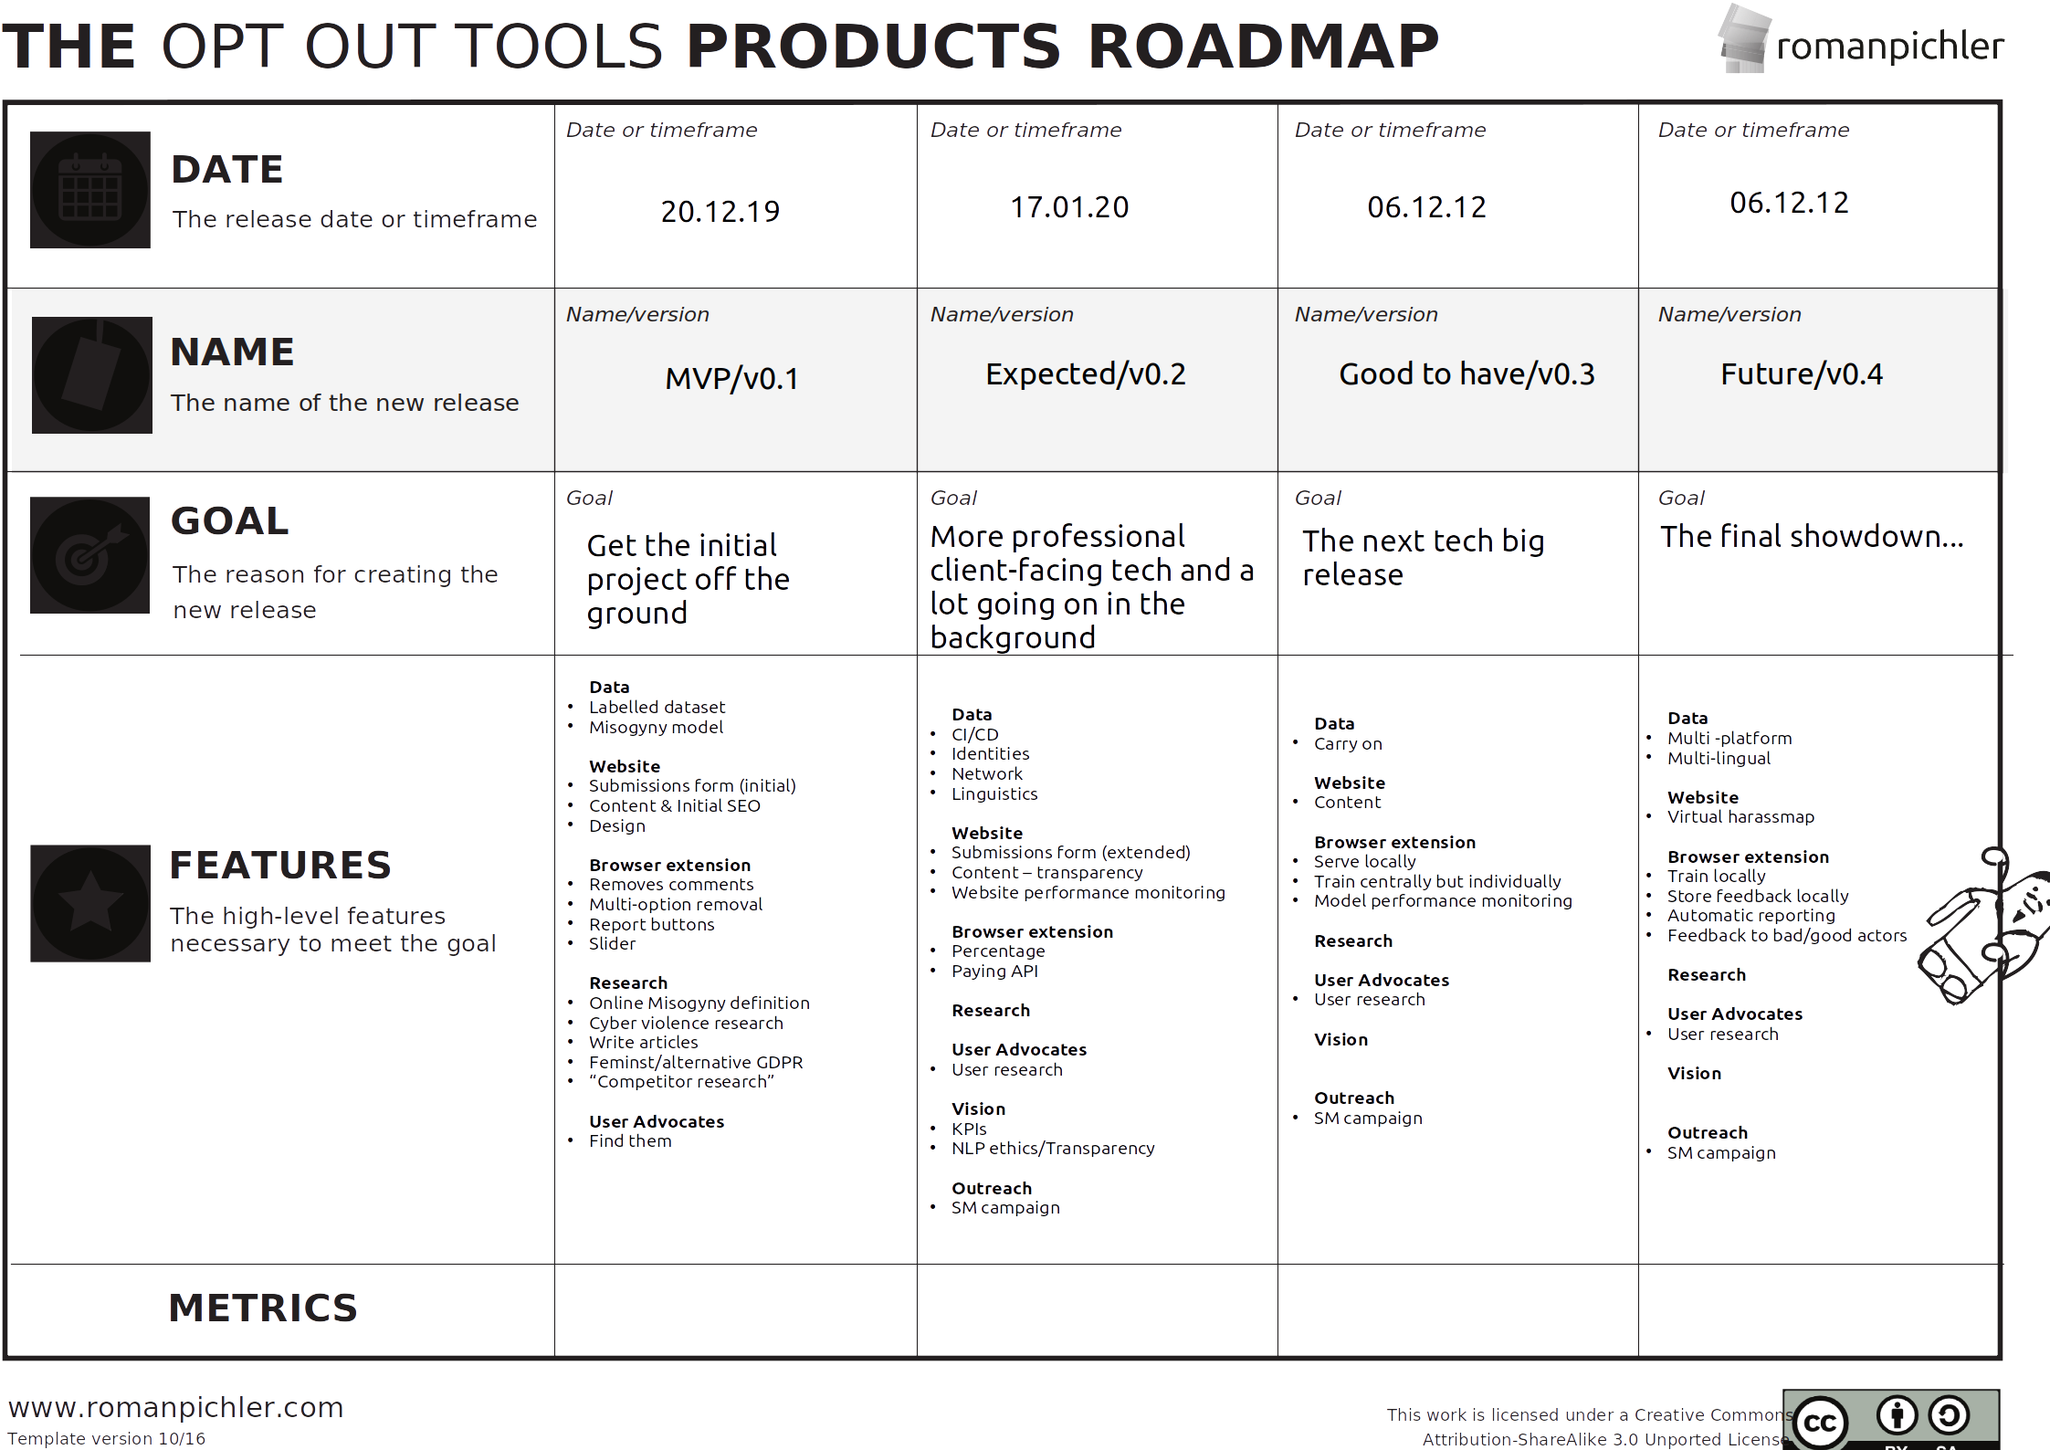
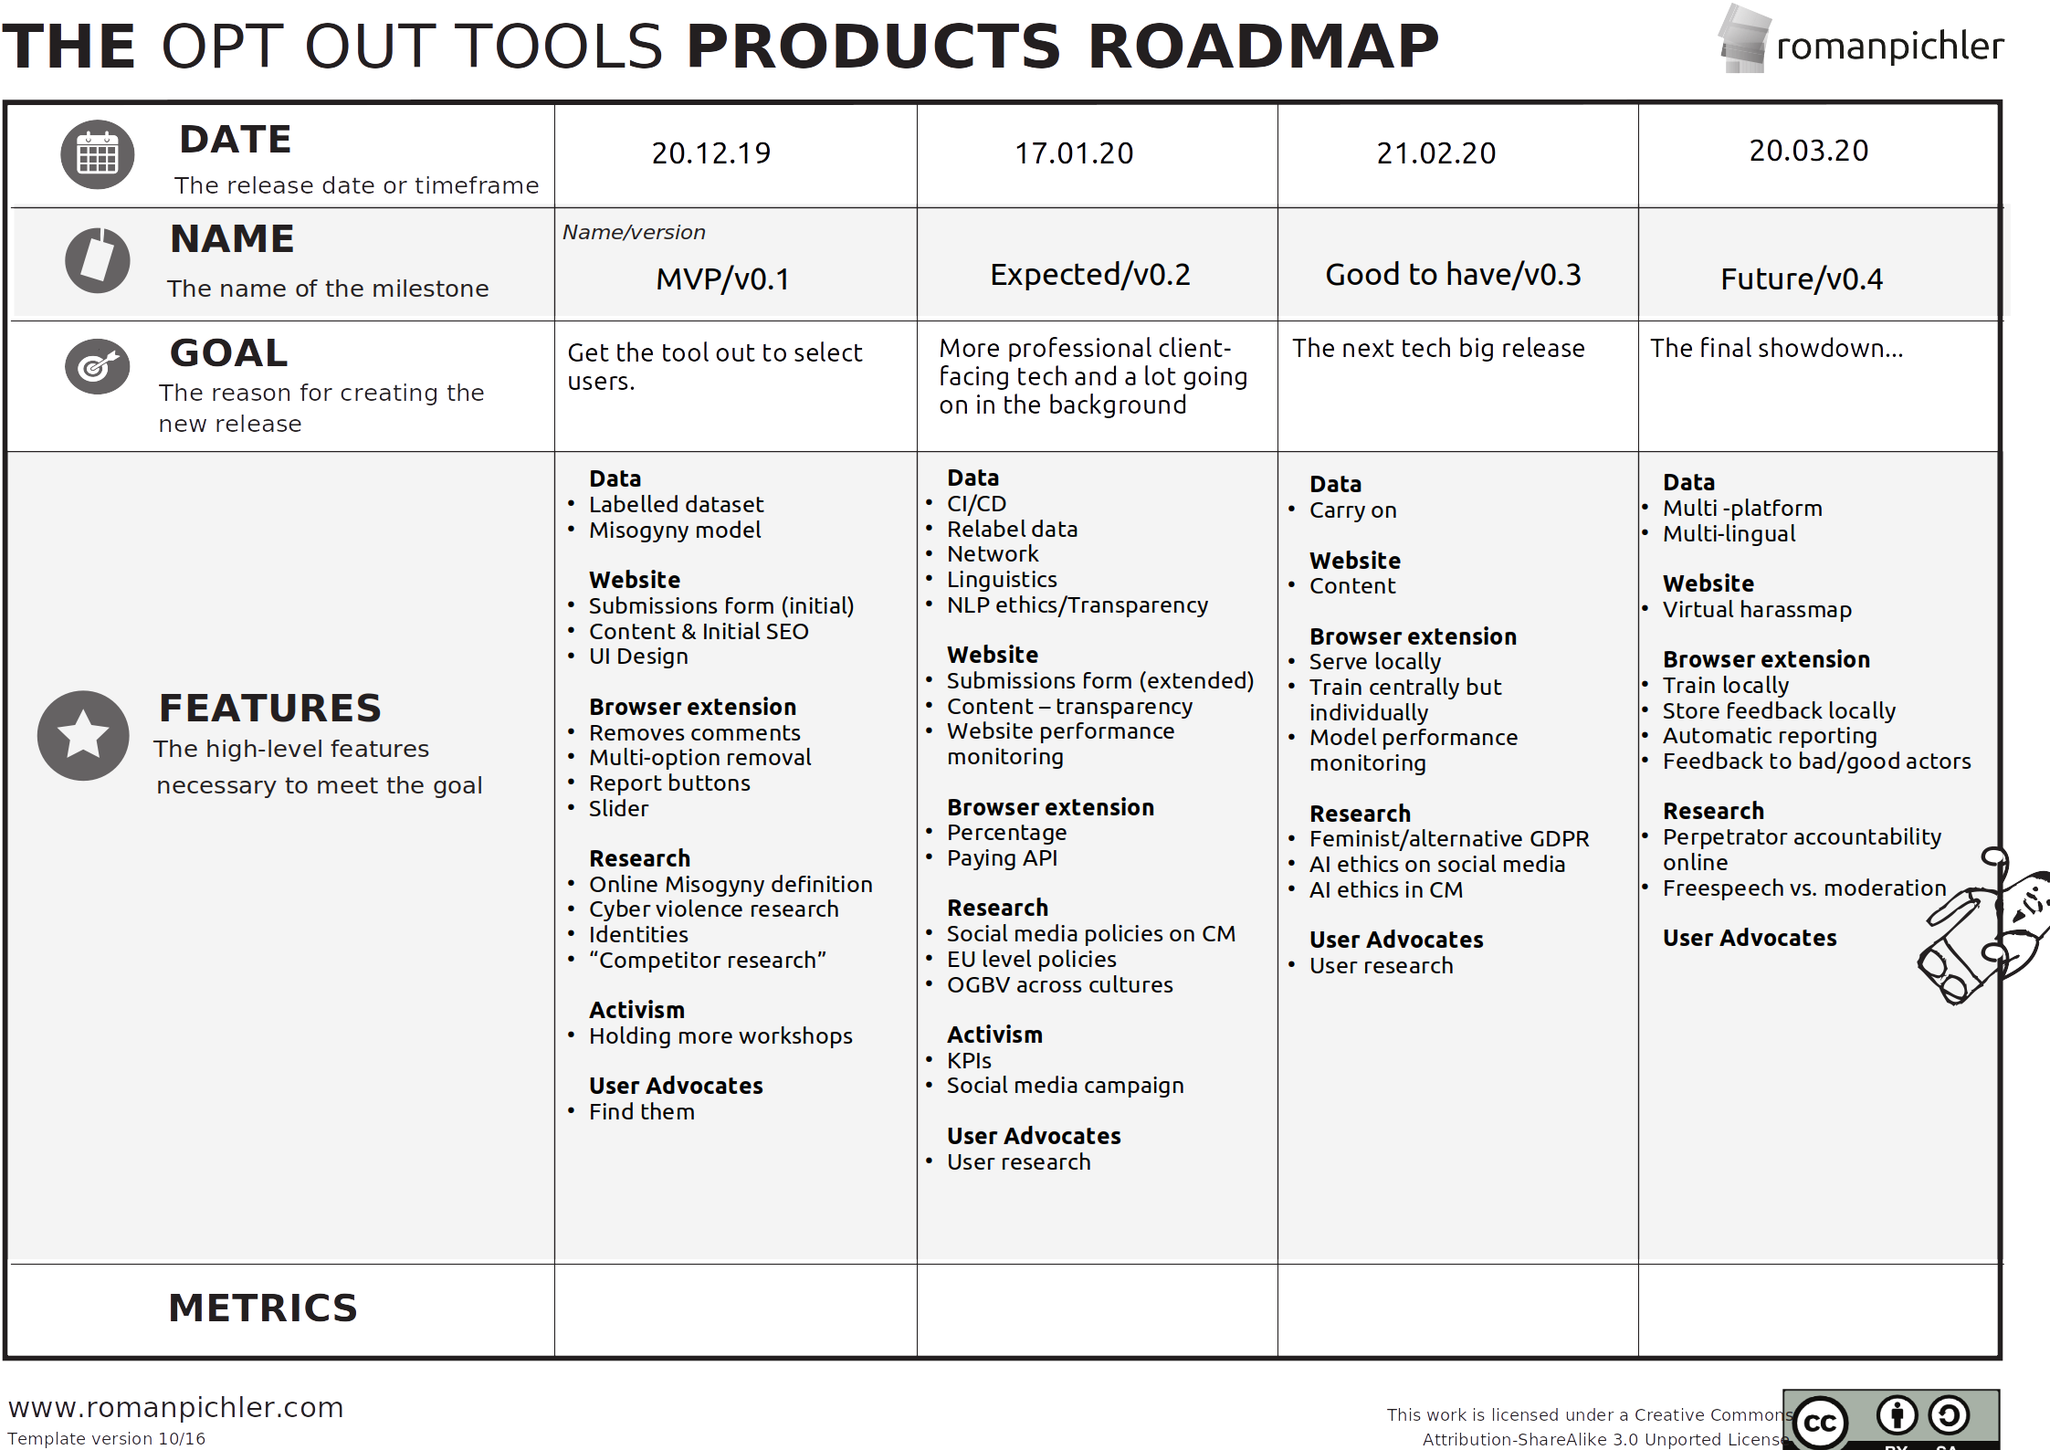
Improved details of project status and overview graphic

diff --git a/README.md b/README.md
@@ -23,8 +23,8 @@ Skip to the bit you want to know about
 
 We currently have five tools we're working on to combat online misogyny. Here's a brief description of each tool:
 
-- **Browser Extension**: works like adBlocker, but removes misogyny instead of adverts
-- **Website**: allows an individual to not only support and inform themselves, but submit a report of online misogyny
+- **Browser Extension**: works like adBlocker but removes misogyny instead of adverts
+- **Website**: allows an individual to not only support and inform themselves but also submit a report of online misogyny
 - **Activism**: saying boo to the misogyny gooses 
 - **Research**: understanding online misogyny and the problem domain
 - **Modeling**: modeling online misogyny
@@ -43,10 +43,10 @@ We’re also holding workshops and hackathons to develop our “antidote to sili
 ### Our Research
 Our tech is here to solve real-world problems. It's vital to us that we compile and understand the latest research around online misogyny to inform our technical decisions. 
 
-Whilst Opt Out's is long-term goal to be able to protect to all female-identifying people one day, we are committed to supporting those who face the most misogyny online. We have found through reviewing academic studies and existing polls that typically, there are a few factors which determine how much abuse a female-identifying people will be subject to online. Firstly, the more publicly visible and outspoken a female-identifying people is, the more likely it is that she will receive online misogyny. We see politicians, academics, journalists (particularly those who write about stereotypically masculine areas like sports and gaming), activists and human rights defenders all receiving gendered abuse online. Many female politicians across Europe are forced to contend with misogyny on a regular basis, sometimes resulting in these politicians stepping down from their positions. If a female-identifying people also happens to be black, trans, obese, any intersecting identity that is already discriminated against, the intensity and amount of abuse increases. We will focus on protecting these voices that disproportionately suffer from online misogyny first and increase inclusivity as we understand how we can model misogyny better.
+Whilst Opt Out's is long-term goal to be able to protect to all female-identifying people one day, we are committed to supporting those who face the most misogyny online. We have found through reviewing academic studies and existing polls that typically, there are a few factors which determine how much abuse a female-identifying person will be subject to online. Firstly, the more publicly visible and outspoken a female-identifying person is, the more likely it is that she will receive online misogyny. We see politicians, academics, journalists (particularly those who write about stereotypically masculine areas like sports and gaming), activists and human rights defenders all receiving gendered abuse online. Many female politicians across Europe are forced to contend with misogyny on a regular basis, sometimes resulting in these politicians stepping down from their positions. If a female-identifying people also happens to be black, trans, obese, any intersecting identity that is already discriminated against, the intensity and amount of abuse increases. We will focus on protecting these voices that disproportionately suffer from online misogyny first and increase inclusivity as we understand how we can model misogyny better.
  
 ### Our Modeling
-Language is incredibly nuanced. Our strategy to build tool that is designed to block misogyny towards a particular group of female-identifying people being harassed online. By initially targeting our protection to a specific group of people, we will ensure that our browser extension is effective from the word go. As we better understand online misogyny and how to model it we will improve our model to have an increased range of groups of people whom our tool is of use to.
+Language is incredibly nuanced. Our strategy to build tool that is designed to remove misogyny targets at a particular group of female-identifying people being harassed online. By initially targeting our protection to a specific group of people, we will ensure that our browser extension is effective from the word go. As we better understand online misogyny and how to model it we will improve our model to have an increased range of groups of people whom our tool is of use to.
 
 Currently we are focusing on Twitter and using Natural Language Processing to understand the sentiment of a tweet. However this is a very simple model of how language works. Language has content, context, conversation and meaning embedded in the words. To capture this and make our machine learning models as precise as possible, we will eventually include network analysis, computational linguistics and other techniques, so that we are as sure as we can be that the comment is misogynistic.
 
@@ -54,11 +54,8 @@ Also it is important to state here our commitement to understanding the biases a
 
 
 ## Where we are now
-
-A high-level overview of how each of the tools are working.
-
 ### Browser Extension
-We have curated a misogyny dataset and built have a binary classifier misogyny model which fuels the basic implementation of the browser extension. The browser extension is only available to use via github.
+We have curated a misogyny dataset and have built a binary classifier misogyny model which is the model behind the basic implementation of the browser extension. The browser extension is only available to use via github.
 
 ### Website
 Our website is up and can be found at [optoutools.com](https://www.optoutools.com) but it is lacking content, design and GDPR help. Due to this, the report functionality is currently not working. If you can contribute any of these we'd be eternally grateful.
@@ -75,17 +72,15 @@ Our workshops include:
 If you'd like to know more about these, please each out at @OptOutSocial
 
 ### Research
-We've done patchy but thorough research up until now. It's time to decide on a research roadmap. This roadmap is expected to include researching different definitions of misogyny at different levels, sociolinguistic study of misogyny and more.
+We've done thorough research up until now but there are gaps. We have a definition of misogyny, an idea of the problem domain but there's a still a lot to do. It's time to decide on a research roadmap. This roadmap is expected to include researching different definitions of misogyny at different levels, sociolinguistic study of misogyny and more.
 
 ### Modeling
 We have a misogyny dataset and model, but we need to know how it's doing. We're currently in the process of writing error analysis scripts to do just that. We're also looking at more complex modeling deep learning architectures.
 
-We shall also relabel two new datasets, one with a focus on labeling explicit misogyny and the other only labeling misogyny received by a specific group online.
-
 ## Our Short-Term Vision
 
 ### Browser Extension
-The browser extension model needs to be improved. For that we need to know what it's labeling wrong. We are going to find a select number of users and release it to them with specific functionality, a Opt In and Opt Out buttons. These buttons will send the tweets to our servers and store the incorrectly labelled comments.
+The browser extension model needs to be improved. For that we need to know what it's labeling wrong. We are going to find a select number of users and release it to them with specific functionality, a Isn't and Is misogynistic buttons. These buttons will send the tweets to our servers and store the incorrectly labelled comments.
 
 Alongside getting our minimum viable product gently out into the wild, we will work on fixing some bugs, modeling online misogyny and UX design.
 
@@ -93,44 +88,46 @@ Alongside getting our minimum viable product gently out into the wild, we will w
 Work will be mostly focusing on content, SEO and UX/UI design, trying to make our website as accessible, feminist and appealing as possible.
 
 ### Activism
-Plan and action a kick-ass social media campaign!
+We shall begin to compile content and look at social media campaigning strategies. 
+
+Our workshops, particularly Consquence Scanning, will be developed ready for a large conference at the end of the year.
 
 ### Research
-- Portfolios of misogyny
+Once our research roadmap has been devised and the work carried out we will then look towards current policy at various levels around content moderation. We will also focus on understanding the experiences of different female-identifying people with different intersecting identities.
 
 ### Modeling
-- Network analysis
-- Computational linguistics
-- Multi - class labeling
+We shall look to relabel two new datasets, one with a focus on labeling explicit misogyny and the other only labeling misogyny received by a specific group online. We shall then begin modeling with these new datasets.
+
+Work around different aspects of online conversation shall be such as network analysis and computational linguistics study.
+
+We shall also look into transfer learning here.
 
 ## Our Long-Term Vision
 
 ### Browser Extension
-- Automatic reporting
-- local instance
+In the not too distance future we will begin implementing the local instance of the model and also the automatic reporting functionality
 
 ### Website
-- Virtual harassmap
+Once the website looks great and has all the content we need we shall begin to develop the virtual harassmap.
 
 ### Activism
-- Hacktivism
-- Gamify activism
 
 ### Research
 
 ### Modeling
-- Mix models
+By now we should have robust work around modeling misogyny. We shall begin to look multi-platform and multi-lingual.
 
 
+Our long-term vision is to be a tool that works in multiple online spaces such as internal commuincations chat-rooms for companies such as slack or even PR requests on github.
 
-Redesign online spaces for a healthier online community.
-
-<p align="center"> *** </p>
+<p align="center"> * * * </p>
 
 
 ## Tools Roadmap 
 
 <p align="center"> <img src="opt_out_product_roadmap"> </p>
+
+<p align="center"> * * * </p>
 
 
 # The Repos and their Roles
@@ -141,6 +138,8 @@ An overview of the repositories we have an what they are there for
 - [public_ap](https://github.com/opt-out-tools/public_api): the joint back-end for the website and browser extension
 - [theory-of-online-misogyny](https://github.com/opt-out-tools/theory-of-online-misogyny): qualitative research into online misogyny
 - [study-online-misogyny](https://github.com/opt-out-tools/study-online-misogyny): quantitative research into online misogyny
+
+<p align="center"> * * * </p>
 
 # Use Our Tools
 ## Browser Extension
@@ -159,17 +158,26 @@ To use the current version:
 Go to our website [optoutools.com](https://www.optoutools.com) and click the submit a report button to submit details of your experience of online misogyny.
 
 ## Study Online Misogyny
+Look at the [notebooks](https://github.com/opt-out-tools/study-online-misogyny/tree/master/notebooks) to see our modeling efforts.
 
 ## Activism 
+Our twitter handle is @OptOutSocail, spread our message!
 
 ## Research
+Checkout the [theory of online misogyny](https://github.com/opt-out-tools/theory-of-online-misogyny) and its [wiki](https://github.com/opt-out-tools/theory-of-online-misogyny/wiki)
+
+<p align="center"> * * * </p>
 
 # Develop Our Tools
-## Architecture
+## Status of Repos
+Is anything broken? 
+- [opt-out](https://github.com/opt-out-tools/opt-out): [![CircleCI](https://circleci.com/gh/opt-out-tools/opt-out.svg?style=svg)](https://circleci.com/gh/opt-out-tools/opt-out)
+- [study-online-misogyny](https://github.com/opt-out-tools/study-online-misogyny): [![CircleCI](https://circleci.com/gh/opt-out-tools/study-online-misogyny.svg?style=svg)](https://circleci.com/gh/opt-out-tools/study-online-misogyny)
+
+## The Opt Out Tools Architecture
+Here is a diagram depicting the technical architecture of Opt Out Tools.
+
 <p align="center"> <img src="opt_out_architecture.png"> </p>
-
-
-Above you can see a drawing of the architecture for both the browser extension and the website.
 
 ```
 A key:
@@ -178,43 +186,48 @@ A key:
 - blue is not implemented yet
 - arrows indicate information exchange and flow
 ```
+The browser extension and website share a common back-end called public_api. Documentation for these two APIs can be find in the [public_api](https://github.com/opt-out-tools/public_api) repo. 
+
 It is important to note that we do not currently have an automated model deployment mechanism.
 
-The browser extension and website front-ends share a common back-end called public_api.
-
-## Status of Repos
-
-- [opt-out](https://github.com/opt-out-tools/opt-out): [![CircleCI](https://circleci.com/gh/opt-out-tools/opt-out.svg?style=svg)](https://circleci.com/gh/opt-out-tools/opt-out)
-- [study-online-misogyny](https://github.com/opt-out-tools/study-online-misogyny): [![CircleCI](https://circleci.com/gh/opt-out-tools/study-online-misogyny.svg?style=svg)](https://circleci.com/gh/opt-out-tools/study-online-misogyny)
-
-
-## [Browser Extension Front-end](https://github.com/opt-out-tools/opt-out) 
+## Browser Extension Front-end
 The browser extension removes online misogyny from an individual's Twitter feed. We have a binary classifier model sat on some servers and as the page loads the tweets are sent to the backend, the model is hit and returns a score. If the score indicates it’s misogynistic the text is blocked out, if not it’s left on the page. If there is an image attached to the comment that is also blocked. 
 
 Tech stack:
 - Javascript
 - Tensorflow
 
+For further details on developing it [click here](https://github.com/opt-out-tools/opt-out) 
 
-## [Website Front-end](https://github.com/opt-out-tools/website)
+## Website Front-end
 This is the front-end for our website.
 Tech stack:
 - Javascript
 - Angular 8.0
 
+For further details on developing it [click here](https://github.com/opt-out-tools/website) 
 
-## [The Back-end](https://github.com/opt-out-tools/public_api)
+## The Back-end
 This has two API's for the website and the browser extension.
 Tech stack:
 - Python
 - Django
 
-## [Modeling](https://github.com/opt-out-tools/study-online-misogyny)
+For further details on developing it [click here](https://github.com/opt-out-tools/public_api) 
+
+## Modeling
 We study online misogyny here. You can find our current work and our future plans here.
 
 Tech stack:
 - Python/R
 - Data science (text analytics, network analysis.. etc.)
+
+For further details on developing it [click here](https://github.com/opt-out-tools/study-online-misogyny) 
+
+## Activism & Research
+Go to the [theory of online misogyny](https://github.com/opt-out-tools/theory-of-online-misogyny) and contribute to the issues or wiki.
+
+<p align="center"> * * * </p>
 
 # Our Organisation
 
@@ -223,12 +236,15 @@ The only thing better than being able to work on a project that really means som
 
 We have experts from across the world working with a variety of skills from UX to network analysis. More transparency to come.
 
+<p align="center"> * * * </p>
 
 # Code of Conduct
 Please note that this project is released with a [Contributor Code of Conduct](https://github.com/malteserteresa/opt-out/blob/master/CODE_OF_CONDUCT.md). By participating in this project you agree to abide by its terms.
 
 ## Disclaimer
 Our intention is to **never ever** re-victimize anyone. However we deal with explicit content and sometimes we forget to sanitize a work or add a disclaimer that it may content explicit content. If this happens, please let us know and we'll rectify the matter immediately. 
+
+<p align="center"> * * * </p>
 
 # Help Our Vision
 
@@ -238,6 +254,7 @@ Opt Out is an open source project under active development. Currently, machine l
 ## Funding
 If you would like to fund the project or make a donation, please email [Opt Out](mailto:opt-out-tool@gmail.com) or hit the sponsor button above, which will take you to our [Open Collective](https://opencollective.com/opt-out) page.
 
+<p align="center"> * * * </p>
 
 # Our Mission
 We’re a mixed team , including social sciences, UX and lots of data nerds. We’re all working voluntarily in our spare time to make the internet accessible for all. What’s most important about us that we’re a group of people that **wont let hate win**.
